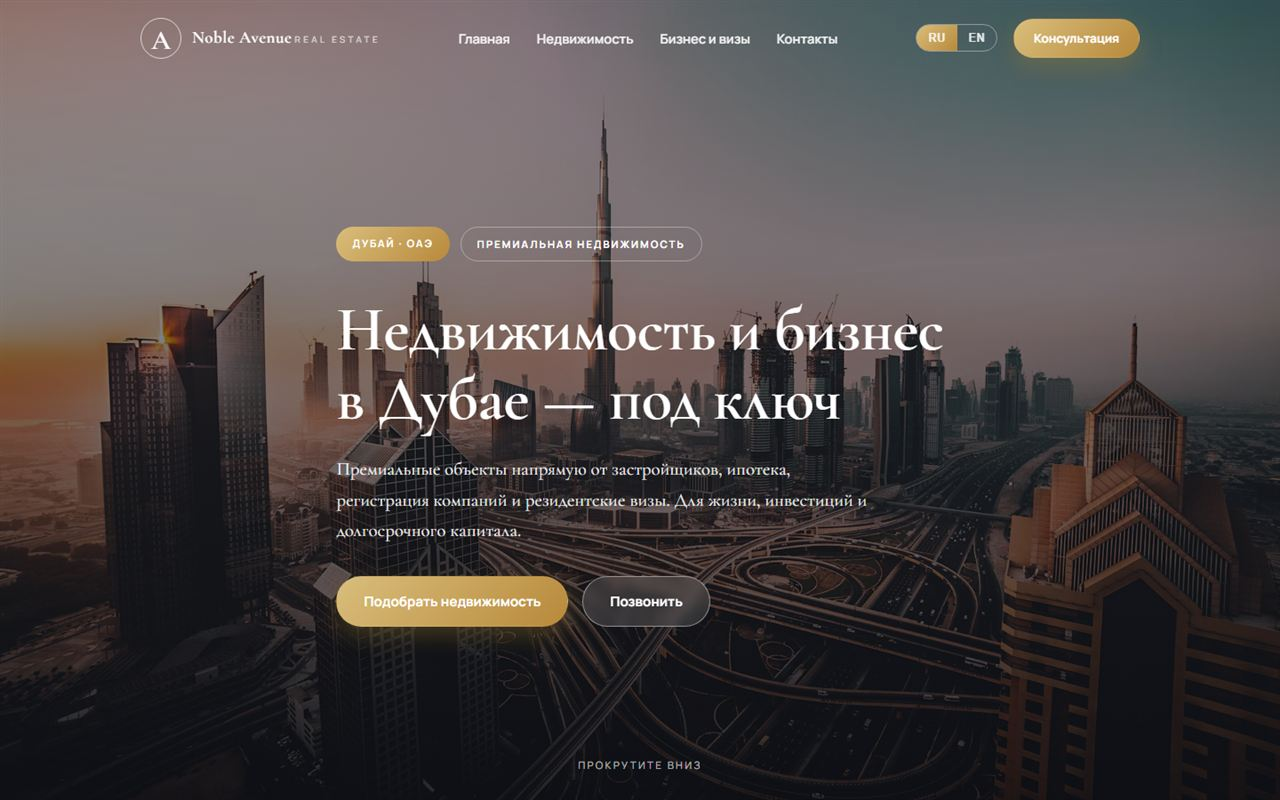
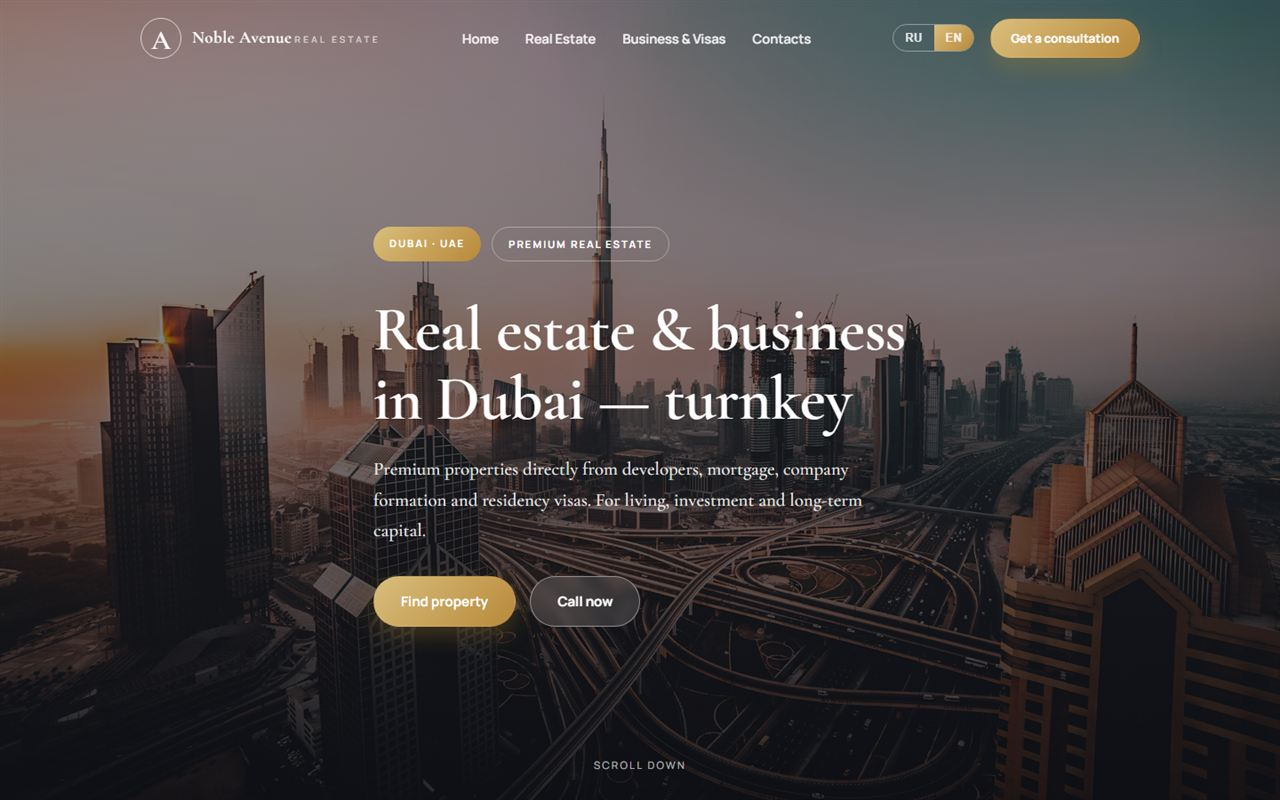
Noble Avenue card: English screenshots

diff --git a/index.html b/index.html
@@ -337,8 +337,8 @@
       <article class="card w-noble rv">
         <div class="stage">
           <div class="browser"><div class="bar"><i></i><i></i><i></i><span>noble-avenue · real estate · dubai</span></div>
-            <div class="shots" id="shots"><img src="assets/work_noble.jpg" alt="Главная страница сайта Noble Avenue: Дубай, недвижимость" data-en-alt="Noble Avenue home page: Dubai real estate" loading="lazy"><img src="assets/work_noble_c.jpg" alt="Страница контактов сайта Noble Avenue с формой заявки" data-en-alt="Noble Avenue contacts page with an enquiry form" loading="lazy"></div></div>
-          <div class="phone"><img src="assets/work_noble_m.jpg" alt="Мобильная версия сайта Noble Avenue" data-en-alt="Noble Avenue mobile version" loading="lazy"></div>
+            <div class="shots" id="shots"><img src="assets/work_noble.jpg?v=2" alt="Главная страница сайта Noble Avenue: Дубай, недвижимость" data-en-alt="Noble Avenue home page: Dubai real estate" loading="lazy"><img src="assets/work_noble_c.jpg?v=2" alt="Страница контактов сайта Noble Avenue с формой заявки" data-en-alt="Noble Avenue contacts page with an enquiry form" loading="lazy"></div></div>
+          <div class="phone"><img src="assets/work_noble_m.jpg?v=2" alt="Мобильная версия сайта Noble Avenue" data-en-alt="Noble Avenue mobile version" loading="lazy"></div>
         </div>
         <div class="txt">
           <span class="k mono"><b>01</b><span data-en="Website · Dubai">Сайт · Дубай</span></span>
